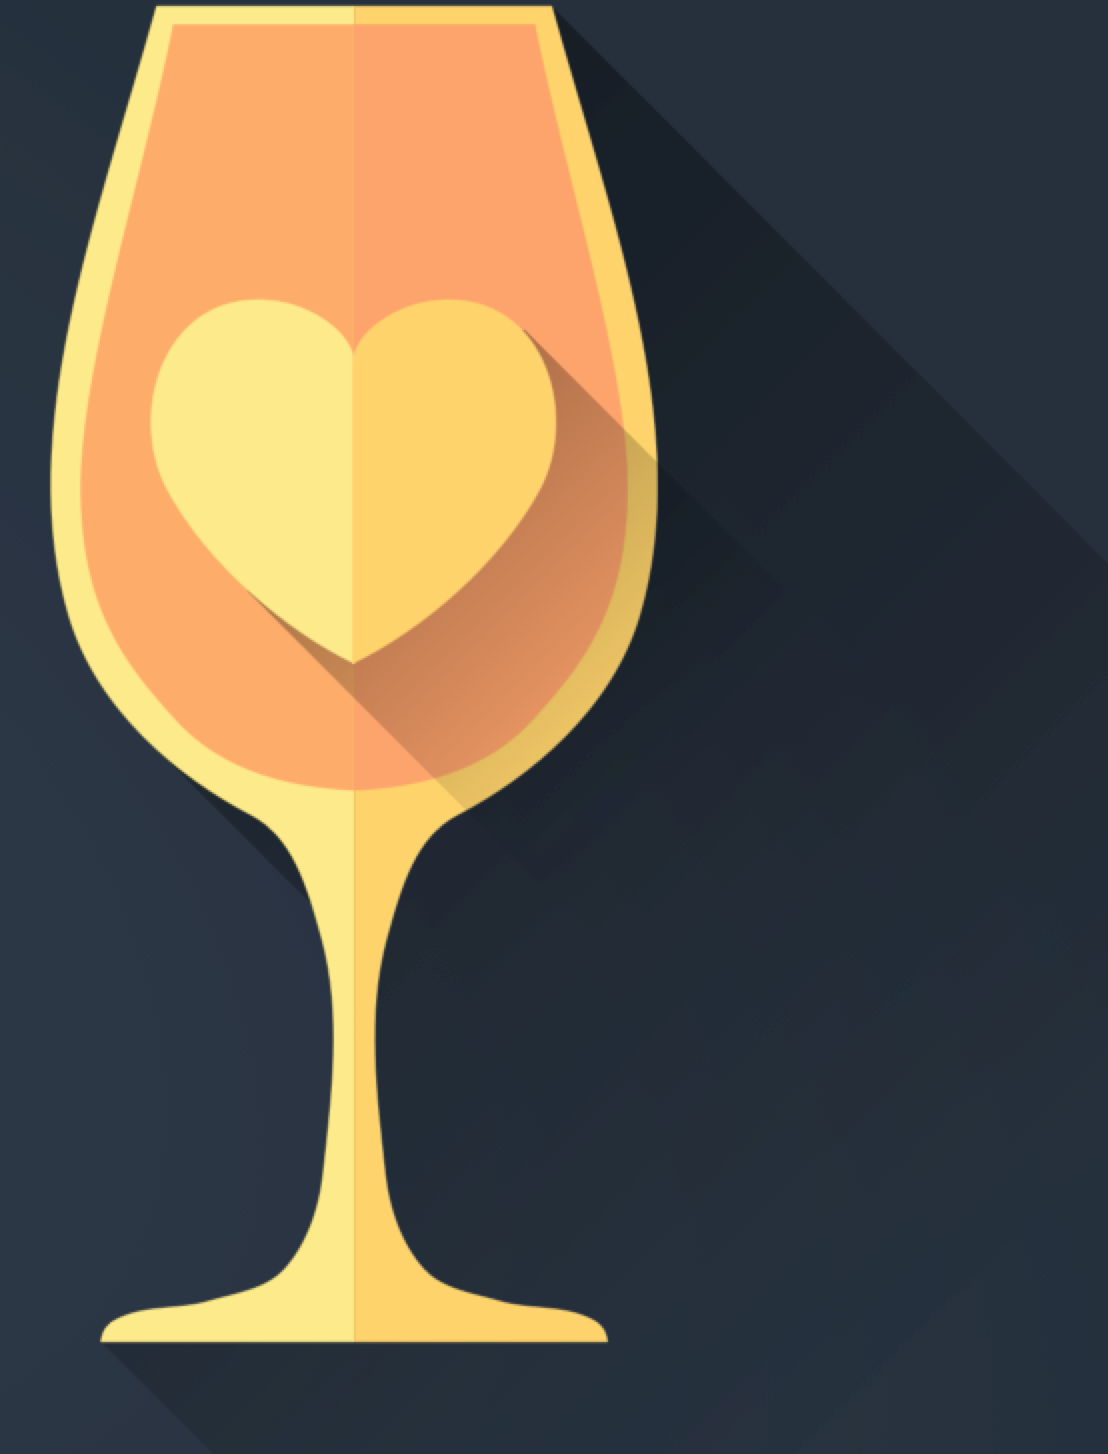
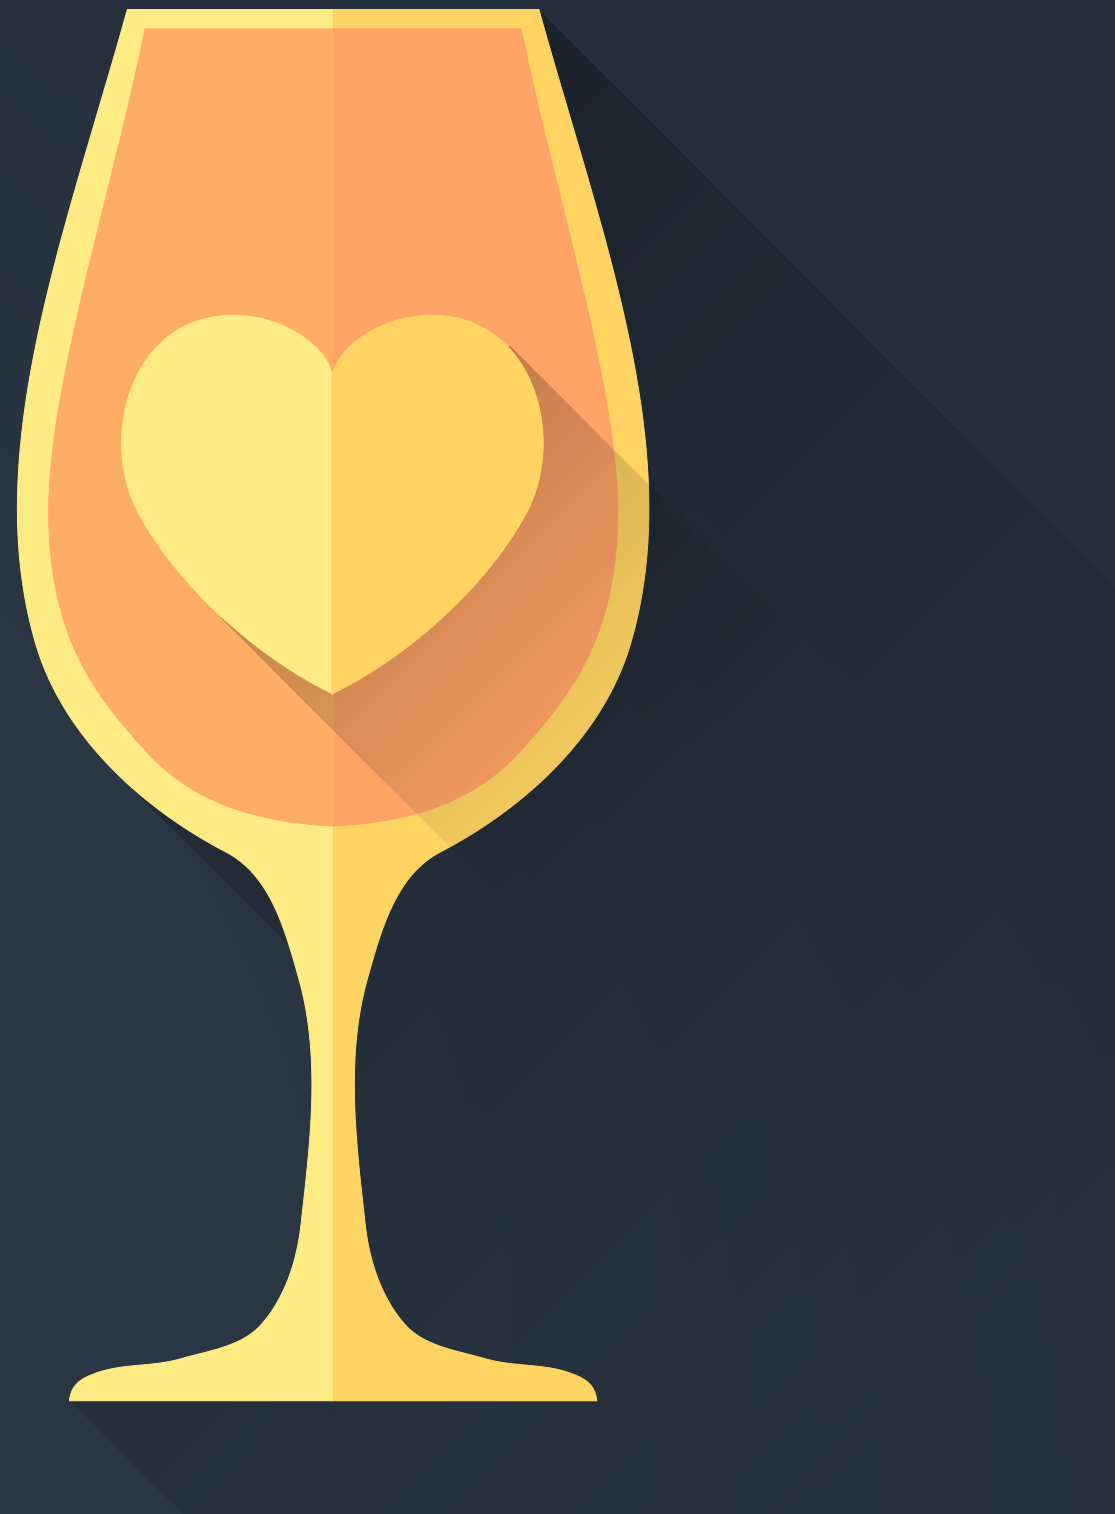
background images, map intro overlay

Changed region(s): [[0.0, 0.0, 0.6137, 0.9285], [0.2148, 0.1857, 0.2762, 0.2166]]

diff --git a/app/styles/_map_overlay.scss b/app/styles/_map_overlay.scss
@@ -164,20 +164,40 @@
 [data-venue-type="Winery"] {
   .venue-badge,
   .venue-card-footer { background-color: $winery-color }
+
+  .venue-badge {
+    background: url('/images/overlay-icon-grapes.png') no-repeat;
+    background-size: contain;
+  }
 }
 
 [data-venue-type="Restaurant"] {
   .venue-badge,
   .venue-card-footer { background-color: $restaurant-color }
+
+  .venue-badge {
+    background: url('/images/overlay-icon-fork.png') no-repeat;
+    background-size: contain;
+  }
 }
 
 [data-venue-type="Hotel"],
 [data-venue-type="Accomodation"] {
   .venue-badge,
   .venue-card-footer { background-color: #8B95A2; }
+
+  .venue-badge {
+    background: url('/images/overlay-icon-bed.png') no-repeat;
+    background-size: contain;
+  }
 }
 
 [data-venue-type="Attraction"] {
   .venue-badge,
   .venue-card-footer { background-color: $attraction-color }
+
+  .venue-badge {
+    background: url('/images/overlay-icon-camera.png') no-repeat;
+    background-size: contain;
+  }
 }

diff --git a/app/views/map.html b/app/views/map.html
@@ -1,5 +1,5 @@
 <div id="map-container" ng-class="(getMapZoomLevel() < 9) ? 'map-zoomed-out' : 'map-zoomed-in'">
- <div ng-include="'/views/map-region.html'"></div>
+<div ng-include="'/views/map-region.html'"></div>
 
 <map resizeMap id="map" class="map" map-type-id="roadmap"
     on-click="findClosesetRegion()"
@@ -10,7 +10,7 @@
     pan-control="false"
     street-view-control="false"
     zoom-control="false">
-<!-- 
+<!--
   <marker
     position="{{bottomBounds}}"
     on-mouseup="changeBottomBounds()"
@@ -99,5 +99,5 @@
 <div ng-include="'/views/map-filters.html'"></div>
 <div ng-include="'/views/map-loading.html'"></div>
 <div ng-include="'/views/map-menu.html'"></div>
-
+<div ng-include="'/views/map-intro-overlay.html'"></div>
 

diff --git a/app/styles/_intro.scss b/app/styles/_intro.scss
@@ -17,6 +17,7 @@
   top: 0;
   right: 0;
   left: 0;
+  z-index: 2;
 }
 
 
@@ -28,7 +29,8 @@
   height: 66%;
   width: 100%;
   background: url('/images/intro-wineglass.png') bottom right no-repeat;
-  background-size: 403px 527px;
+  background-size: 335px 455px;
+  z-index: 1;
 
   .hed {
     color: $site-text-color;

diff --git a/app/views/map-intro-overlay.html b/app/views/map-intro-overlay.html
@@ -1,0 +1,9 @@
+<div id="map-intro-overlay" ng-style="{width:getMapWidth()}" class="map-intro-overlay" ng-if="">
+  <div class="map-intro-overlay-inner">
+    <div class="map-intro-overlay-background"></div>
+    <div class="map-intro-overlay-content">
+
+
+     </div>
+   </div>
+</div>
